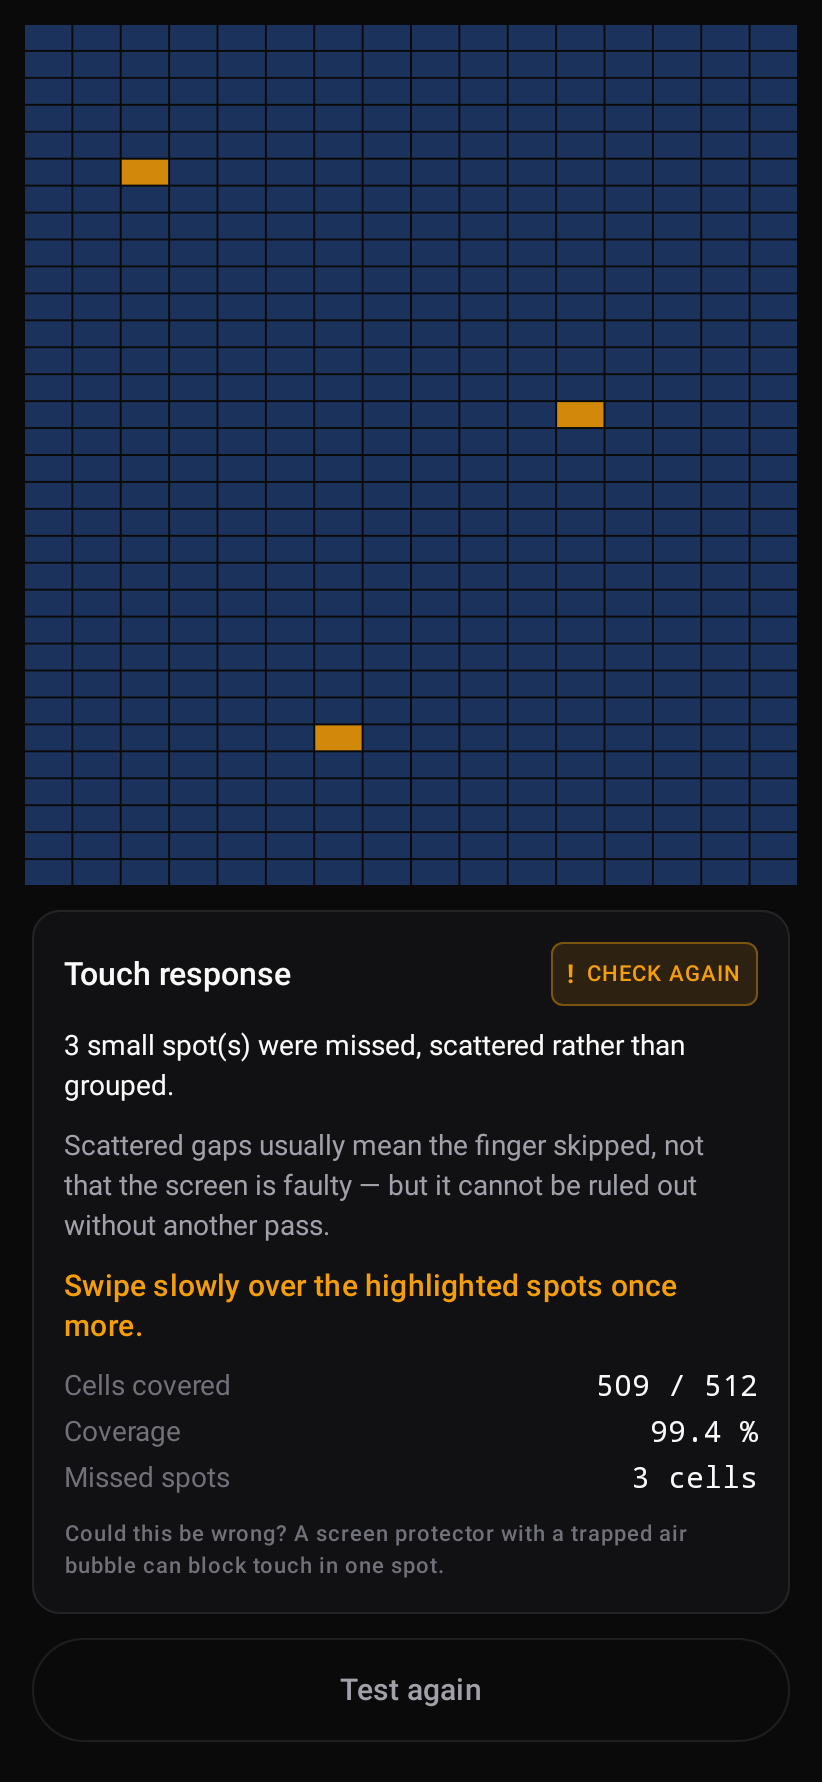
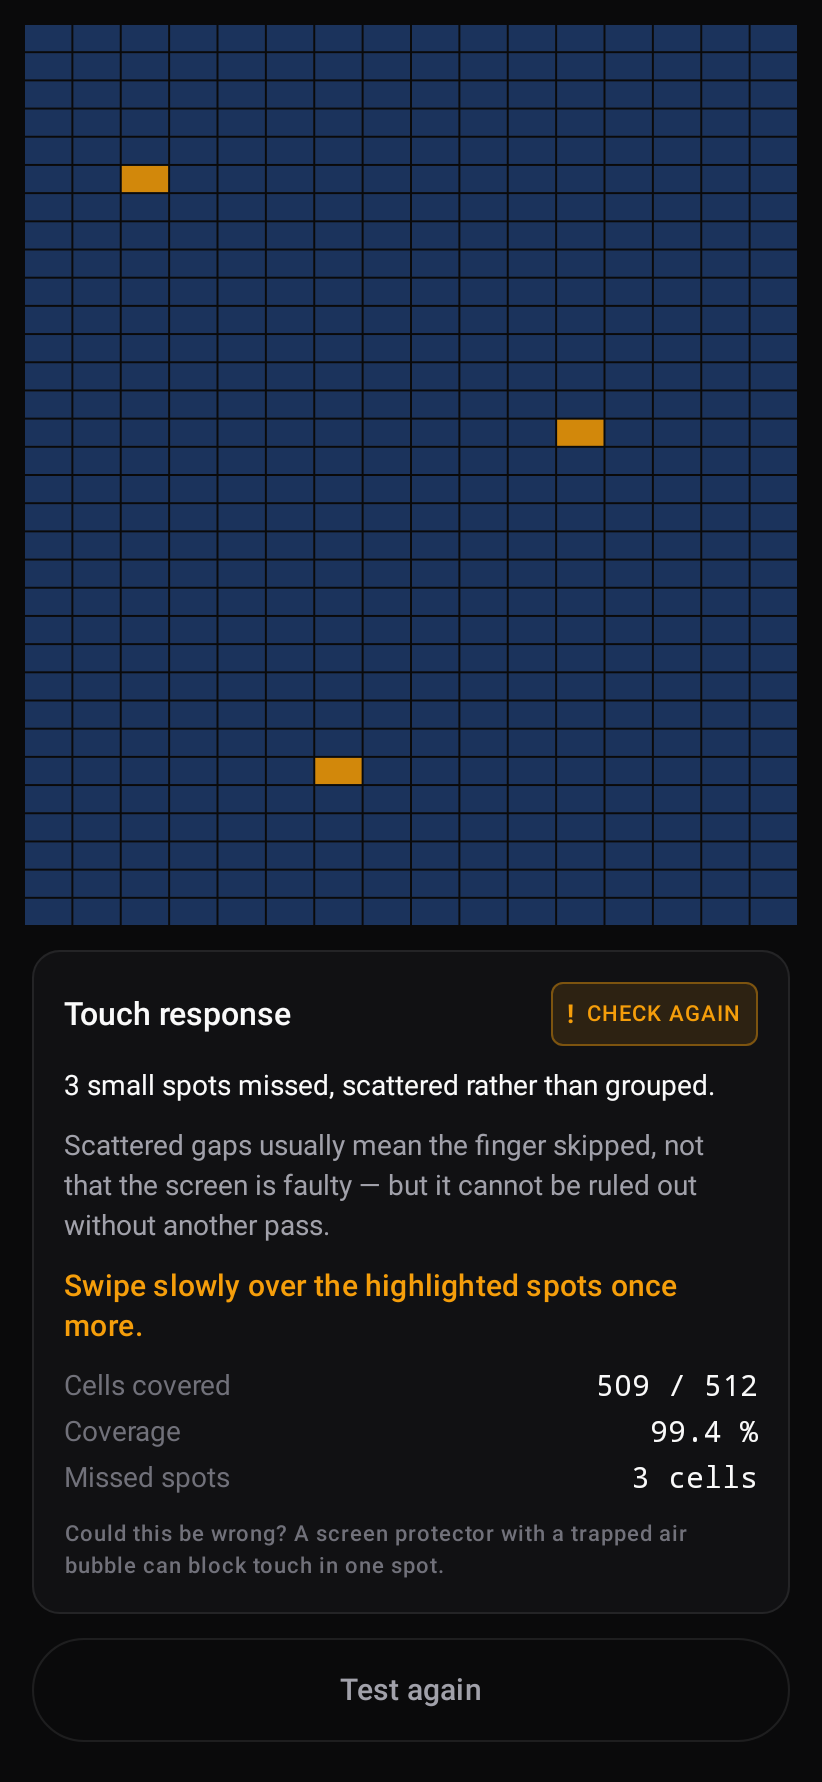
Fix clumsy pluralisation in verdict copy
Reviewing the rendered scan showed "1 months" on the security-updates card, and
the lock check has been saying "1 app(s)" on screen since it shipped. Five
places in total.

It reads like an unfinished template, which matters more here than it would
elsewhere: the whole proposition is that a stranger should trust this app's
verdict about money, and a buyer who thinks the software is sloppy will not use
it to argue for two thousand rupees off. The wording sits directly beside the
finding it undermines.

A plural() helper in core:model rather than getQuantityString, because these
strings are produced inside pure-Kotlin check modules that have no Context and
no resources — which is exactly what keeps them testable in milliseconds. When
translation arrives this is the single place that changes. nounFor() covers the
unit-label case, including a -1 month age when a patch date sits a day in the
future, since "-1 months" would look like a bug.

8 tests on the helper, and the existing assertion on "2 app(s)" now pins the
corrected string.

126 tests, 0 failures.

Changed region(s): [[0.0304, 0.0309, 0.9732, 0.3395], [0.0304, 0.3704, 0.9732, 0.6173]]

diff --git a/checks/device/src/main/kotlin/com/phoneproof/checks/device/SecurityPatchCheck.kt b/checks/device/src/main/kotlin/com/phoneproof/checks/device/SecurityPatchCheck.kt
@@ -4,6 +4,8 @@ import com.phoneproof.core.model.CheckOutcome
 import com.phoneproof.core.model.CheckResult
 import com.phoneproof.core.model.Confidence
 import com.phoneproof.core.model.Measurement
+import com.phoneproof.core.model.nounFor
+import com.phoneproof.core.model.plural
 
 /**
  * How long ago this phone last received a security update.
@@ -54,7 +56,7 @@ object SecurityPatchCheck {
         val ageMonths = (ageDays / 30.44).toInt()
         val measurements = listOf(
             Measurement("Patch date", patch),
-            Measurement("Age", "$ageMonths", "months"),
+            Measurement("Age", "$ageMonths", nounFor(ageMonths, "month")),
             Measurement("Android", "${facts.androidRelease} (API ${facts.sdkInt})"),
         )
 
@@ -83,7 +85,7 @@ object SecurityPatchCheck {
                 title = TITLE,
                 outcome = CheckOutcome.FAIL,
                 confidence = Confidence.HIGH,
-                headline = "No security update for $ageMonths months.",
+                headline = "No security update for ${plural(ageMonths, "month")}.",
                 consequence = "This phone has almost certainly been dropped by its manufacturer. " +
                     "Known security holes will never be fixed, and banking apps may start " +
                     "refusing to run on it.",
@@ -97,7 +99,7 @@ object SecurityPatchCheck {
                 title = TITLE,
                 outcome = CheckOutcome.CAUTION,
                 confidence = Confidence.MEDIUM,
-                headline = "Last security update was $ageMonths months ago.",
+                headline = "Last security update was ${plural(ageMonths, "month")} ago.",
                 consequence = "It is behind, though probably still supported. Support may end soon.",
                 action = "Connect it to wifi and check for a system update before you pay.",
                 measurements = measurements,
@@ -112,7 +114,7 @@ object SecurityPatchCheck {
                 headline = if (ageMonths <= 0) {
                     "Security updates are current."
                 } else {
-                    "Security updates are current, last one $ageMonths month(s) ago."
+                    "Security updates are current, last one ${plural(ageMonths, "month")} ago."
                 },
                 measurements = measurements,
             )

diff --git a/core/model/src/test/kotlin/com/phoneproof/core/model/PluralTest.kt b/core/model/src/test/kotlin/com/phoneproof/core/model/PluralTest.kt
@@ -1,0 +1,48 @@
+package com.phoneproof.core.model
+
+import com.google.common.truth.Truth.assertThat
+import org.junit.Test
+
+class PluralTest {
+
+    @Test
+    fun `one is singular`() {
+        assertThat(plural(1, "month")).isEqualTo("1 month")
+        assertThat(plural(1, "app")).isEqualTo("1 app")
+    }
+
+    @Test
+    fun `zero is plural, which is correct in English`() {
+        assertThat(plural(0, "month")).isEqualTo("0 months")
+    }
+
+    @Test
+    fun `many is plural`() {
+        assertThat(plural(35, "month")).isEqualTo("35 months")
+    }
+
+    @Test
+    fun `an irregular plural can be supplied`() {
+        assertThat(plural(1, "patch", "patches")).isEqualTo("1 patch")
+        assertThat(plural(3, "patch", "patches")).isEqualTo("3 patches")
+    }
+
+    @Test
+    fun `a multi word noun pluralises on the last word`() {
+        assertThat(plural(1, "more area")).isEqualTo("1 more area")
+        assertThat(plural(2, "more area")).isEqualTo("2 more areas")
+    }
+
+    @Test
+    fun `nounFor returns the word alone for sentences that place the number elsewhere`() {
+        assertThat(nounFor(1, "month")).isEqualTo("month")
+        assertThat(nounFor(4, "month")).isEqualTo("months")
+    }
+
+    @Test
+    fun `minus one is singular too`() {
+        // Guards the unit label when a patch date is a day or two in the future and the computed
+        // age rounds to -1: "-1 months" would look like a bug on screen.
+        assertThat(nounFor(-1, "month")).isEqualTo("month")
+    }
+}

diff --git a/checks/touch/src/main/kotlin/com/phoneproof/checks/touch/TouchCoverageEvaluator.kt b/checks/touch/src/main/kotlin/com/phoneproof/checks/touch/TouchCoverageEvaluator.kt
@@ -4,6 +4,7 @@ import com.phoneproof.core.model.CheckOutcome
 import com.phoneproof.core.model.CheckResult
 import com.phoneproof.core.model.Confidence
 import com.phoneproof.core.model.Measurement
+import com.phoneproof.core.model.plural
 
 /**
  * Turns raw coverage into a report row.
@@ -63,7 +64,7 @@ object TouchCoverageEvaluator {
             val worst = realDefects.first()
             val region = worst.region(coverage.spec).label
             val others = realDefects.size - 1
-            val extra = if (others > 0) " Plus $others more area(s)." else ""
+            val extra = if (others > 0) " Plus ${plural(others, "more area")}." else ""
 
             return CheckResult(
                 id = CHECK_ID,
@@ -90,7 +91,7 @@ object TouchCoverageEvaluator {
                 title = "Touch response",
                 outcome = CheckOutcome.CAUTION,
                 confidence = Confidence.MEDIUM,
-                headline = "$skipped small spot(s) were missed, scattered rather than grouped.",
+                headline = "${plural(skipped, "small spot")} missed, scattered rather than grouped.",
                 consequence = "Scattered gaps usually mean the finger skipped, not that the " +
                     "screen is faulty — but it cannot be ruled out without another pass.",
                 action = "Swipe slowly over the highlighted spots once more.",

diff --git a/checks/emilock/src/test/kotlin/com/phoneproof/checks/emilock/EmiLockEvaluatorTest.kt b/checks/emilock/src/test/kotlin/com/phoneproof/checks/emilock/EmiLockEvaluatorTest.kt
@@ -61,6 +61,17 @@ class EmiLockEvaluatorTest {
     }
 
     @Test
+    fun `a single admin reads as one app, not one app-bracket-s`() {
+        // "1 app(s)" was on screen and it reads like unfinished software, which is corrosive in an
+        // app asking a stranger to trust its verdict about money.
+        val result = EmiLockEvaluator.evaluate(
+            DeviceAdminSnapshot(listOf(admin("com.one", "Guard"))),
+        )
+        assertThat(result.headline).contains("1 app can control")
+        assertThat(result.headline).doesNotContain("(s)")
+    }
+
+    @Test
     fun `a plain administrator is CAUTION rather than FAIL`() {
         // Genuinely ambiguous: this is how finance locks work and also how antivirus and
         // find-my-phone apps work. Failing it outright would kill honest deals.
@@ -104,7 +115,7 @@ class EmiLockEvaluatorTest {
             listOf(admin("a.one", "One"), admin("b.two", "Two")),
         )
         val result = EmiLockEvaluator.evaluate(snapshot)
-        assertThat(result.headline).contains("2 app(s)")
+        assertThat(result.headline).contains("2 apps")
         assertThat(result.headline).contains("One")
         assertThat(result.headline).contains("Two")
     }

diff --git a/core/model/src/main/kotlin/com/phoneproof/core/model/Plural.kt b/core/model/src/main/kotlin/com/phoneproof/core/model/Plural.kt
@@ -1,0 +1,20 @@
+package com.phoneproof.core.model
+
+/**
+ * Renders a count with a correctly pluralised noun: "1 month", "3 months".
+ *
+ * Exists because the alternative was appearing on screen as "1 month(s)" and "1 app(s)". In an app
+ * whose entire proposition is that a stranger should trust its verdict, copy that reads like an
+ * unfinished template undermines the finding next to it — a buyer who thinks the software is sloppy
+ * will not use it to argue about money.
+ *
+ * Deliberately not `getQuantityString`: these strings are produced inside pure-Kotlin check modules
+ * that have no `Context` and no resources, which is what keeps them testable in milliseconds. When
+ * translation arrives this becomes the single place that has to change.
+ */
+fun plural(count: Int, singular: String, plural: String = singular + "s"): String =
+    "$count ${nounFor(count, singular, plural)}"
+
+/** The noun alone, for sentences that place the number elsewhere. */
+fun nounFor(count: Int, singular: String, plural: String = singular + "s"): String =
+    if (count == 1 || count == -1) singular else plural

diff --git a/checks/emilock/src/main/kotlin/com/phoneproof/checks/emilock/EmiLockEvaluator.kt b/checks/emilock/src/main/kotlin/com/phoneproof/checks/emilock/EmiLockEvaluator.kt
@@ -4,6 +4,7 @@ import com.phoneproof.core.model.CheckOutcome
 import com.phoneproof.core.model.CheckResult
 import com.phoneproof.core.model.Confidence
 import com.phoneproof.core.model.Measurement
+import com.phoneproof.core.model.plural
 
 /**
  * Decides what administrative control over a phone means for someone buying it.
@@ -92,7 +93,7 @@ object EmiLockEvaluator {
                 // wolf stops being believed.
                 outcome = CheckOutcome.CAUTION,
                 confidence = Confidence.MEDIUM,
-                headline = "${plain.size} app(s) can control this phone remotely: $names.",
+                headline = "${plural(plain.size, "app")} can control this phone remotely: $names.",
                 consequence = "A device administrator can lock the screen or wipe the phone. It " +
                     "might be an antivirus or a find-my-phone app — or it might be a lender's lock.",
                 action = "Have the seller factory reset the phone in front of you, then run this " +
